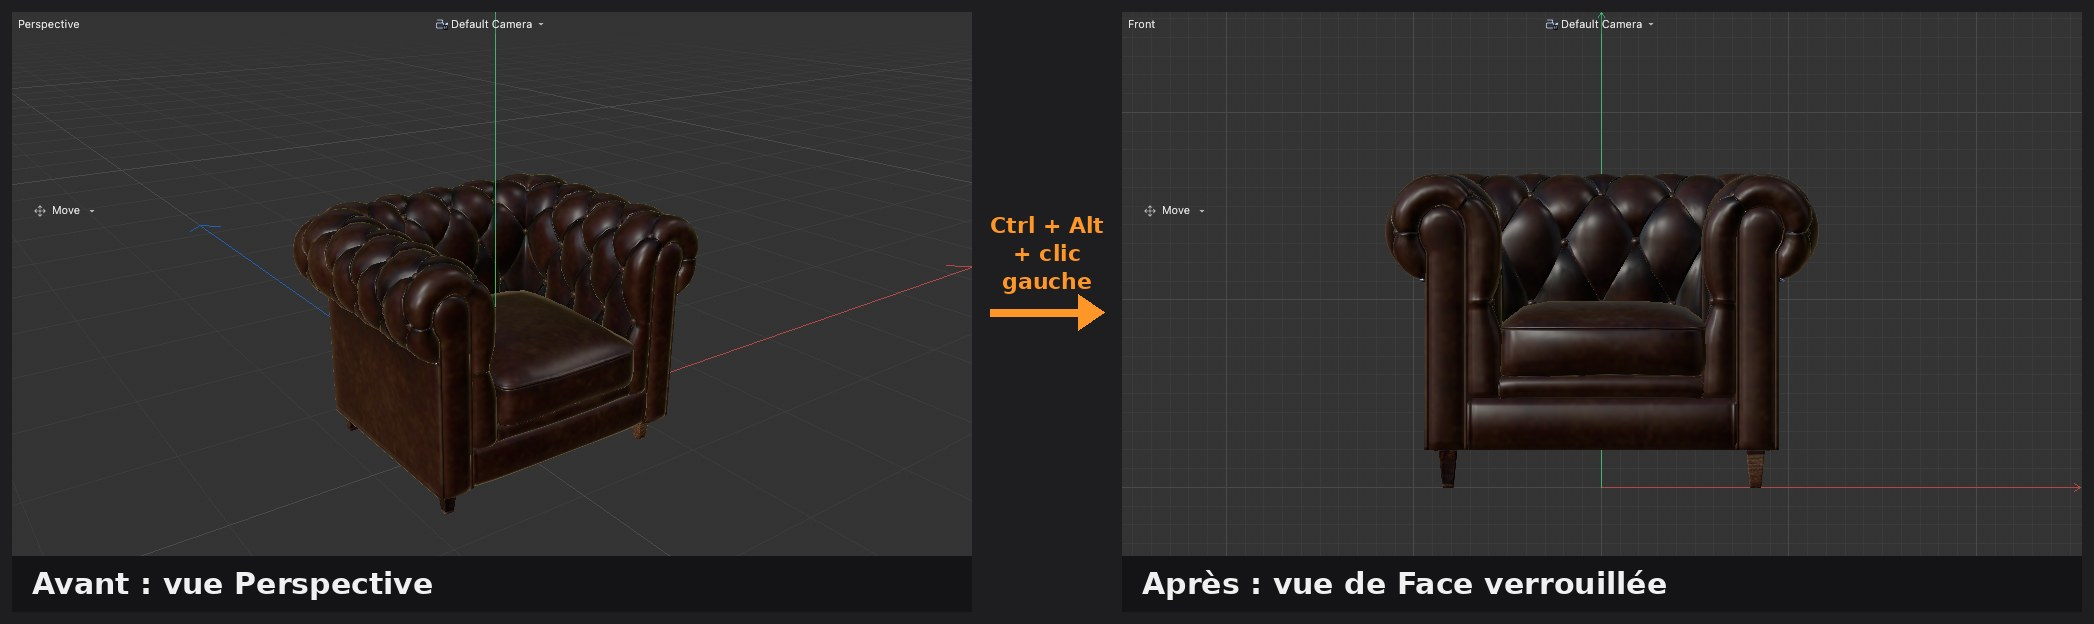
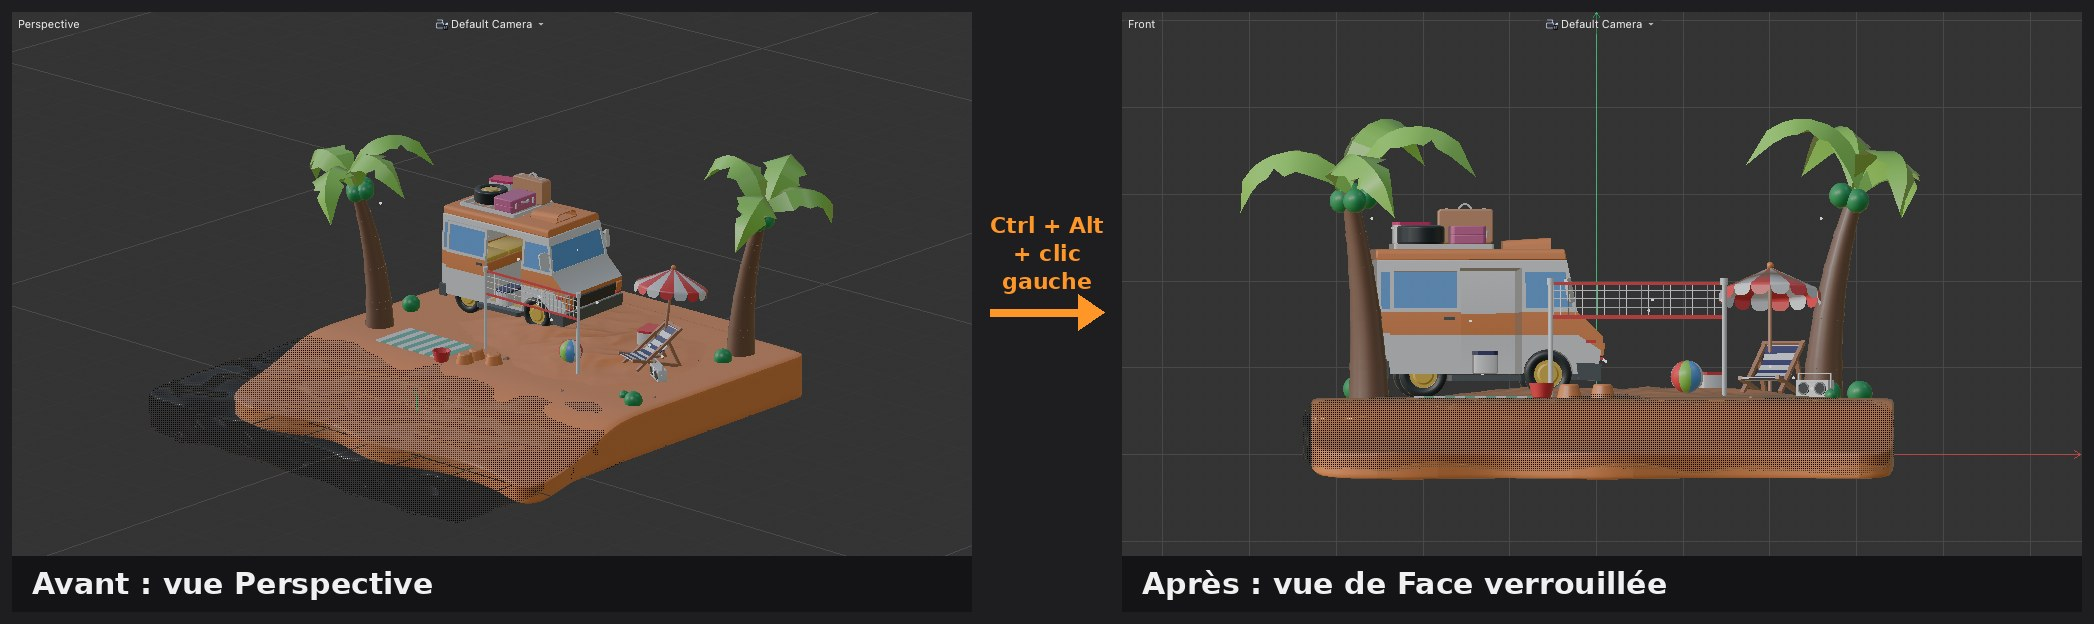
Semaine 1, jour 1 : snap orthographique illustré avec la scène Beach
Claude-Session: https://claude.ai/code/session_01Jthbop6P1e1UsD1JFtTU21

Changed region(s): [[0.5898, 0.1827, 0.9933, 0.7917], [0.0621, 0.2131, 0.4035, 0.8221]]

diff --git a/semaine-1/jour-1.md b/semaine-1/jour-1.md
@@ -50,8 +50,8 @@ Vous ne déplacez pas les objets quand vous naviguez : vous déplacez une camér
 - **Vue orthographique** : les vues Haut, Droite et Face n'ont pas de perspective. Les lignes parallèles restent parallèles. Indispensable pour aligner deux objets (poser un vase sur une table sans qu'il flotte ni traverse le plateau).
 - **Snap orthographique – `Ctrl + Alt + clic gauche` glissé** : depuis la vue Perspective, maintenez `Ctrl + Alt` et faites glisser avec le clic gauche, comme pour orbiter. La vue se verrouille sur la vue orthographique la plus proche (Face, Droite, Haut, etc.). Parfait pour modéliser rapidement ou placer un objet sans quitter la vue unique. Pour revenir aux 4 vues si besoin : clic molette ou `F5`.
 
-![Snap orthographique sur un fauteuil de l'Asset Browser](images/snap-orthographique.jpg){: .w100}
-*Snap orthographique : `Ctrl + Alt + clic gauche` glissé fait passer la vue Perspective (à gauche) en vue de Face verrouillée (à droite). Objet : Chesterfield Sofa – 1 Seat, Asset Browser. — Capture Cinema 4D 2027*
+![Snap orthographique sur la scène Beach – Low Poly](images/snap-orthographique.jpg){: .w100}
+*Snap orthographique : `Ctrl + Alt + clic gauche` glissé fait passer la vue Perspective (à gauche) en vue de Face verrouillée (à droite). Scène : Beach – Low Poly. — Capture Cinema 4D 2027*
 
 - **Recadrer sur la sélection (Frame Selected) – touche `S`** : la vue se centre sur l'objet sélectionné, qui devient le pivot de l'orbite. C'est le réflexe numéro un.
 - **Recadrer sur tout (Frame All) – touche `H`** : la vue englobe toute la scène. Utile quand on s'est perdu.
